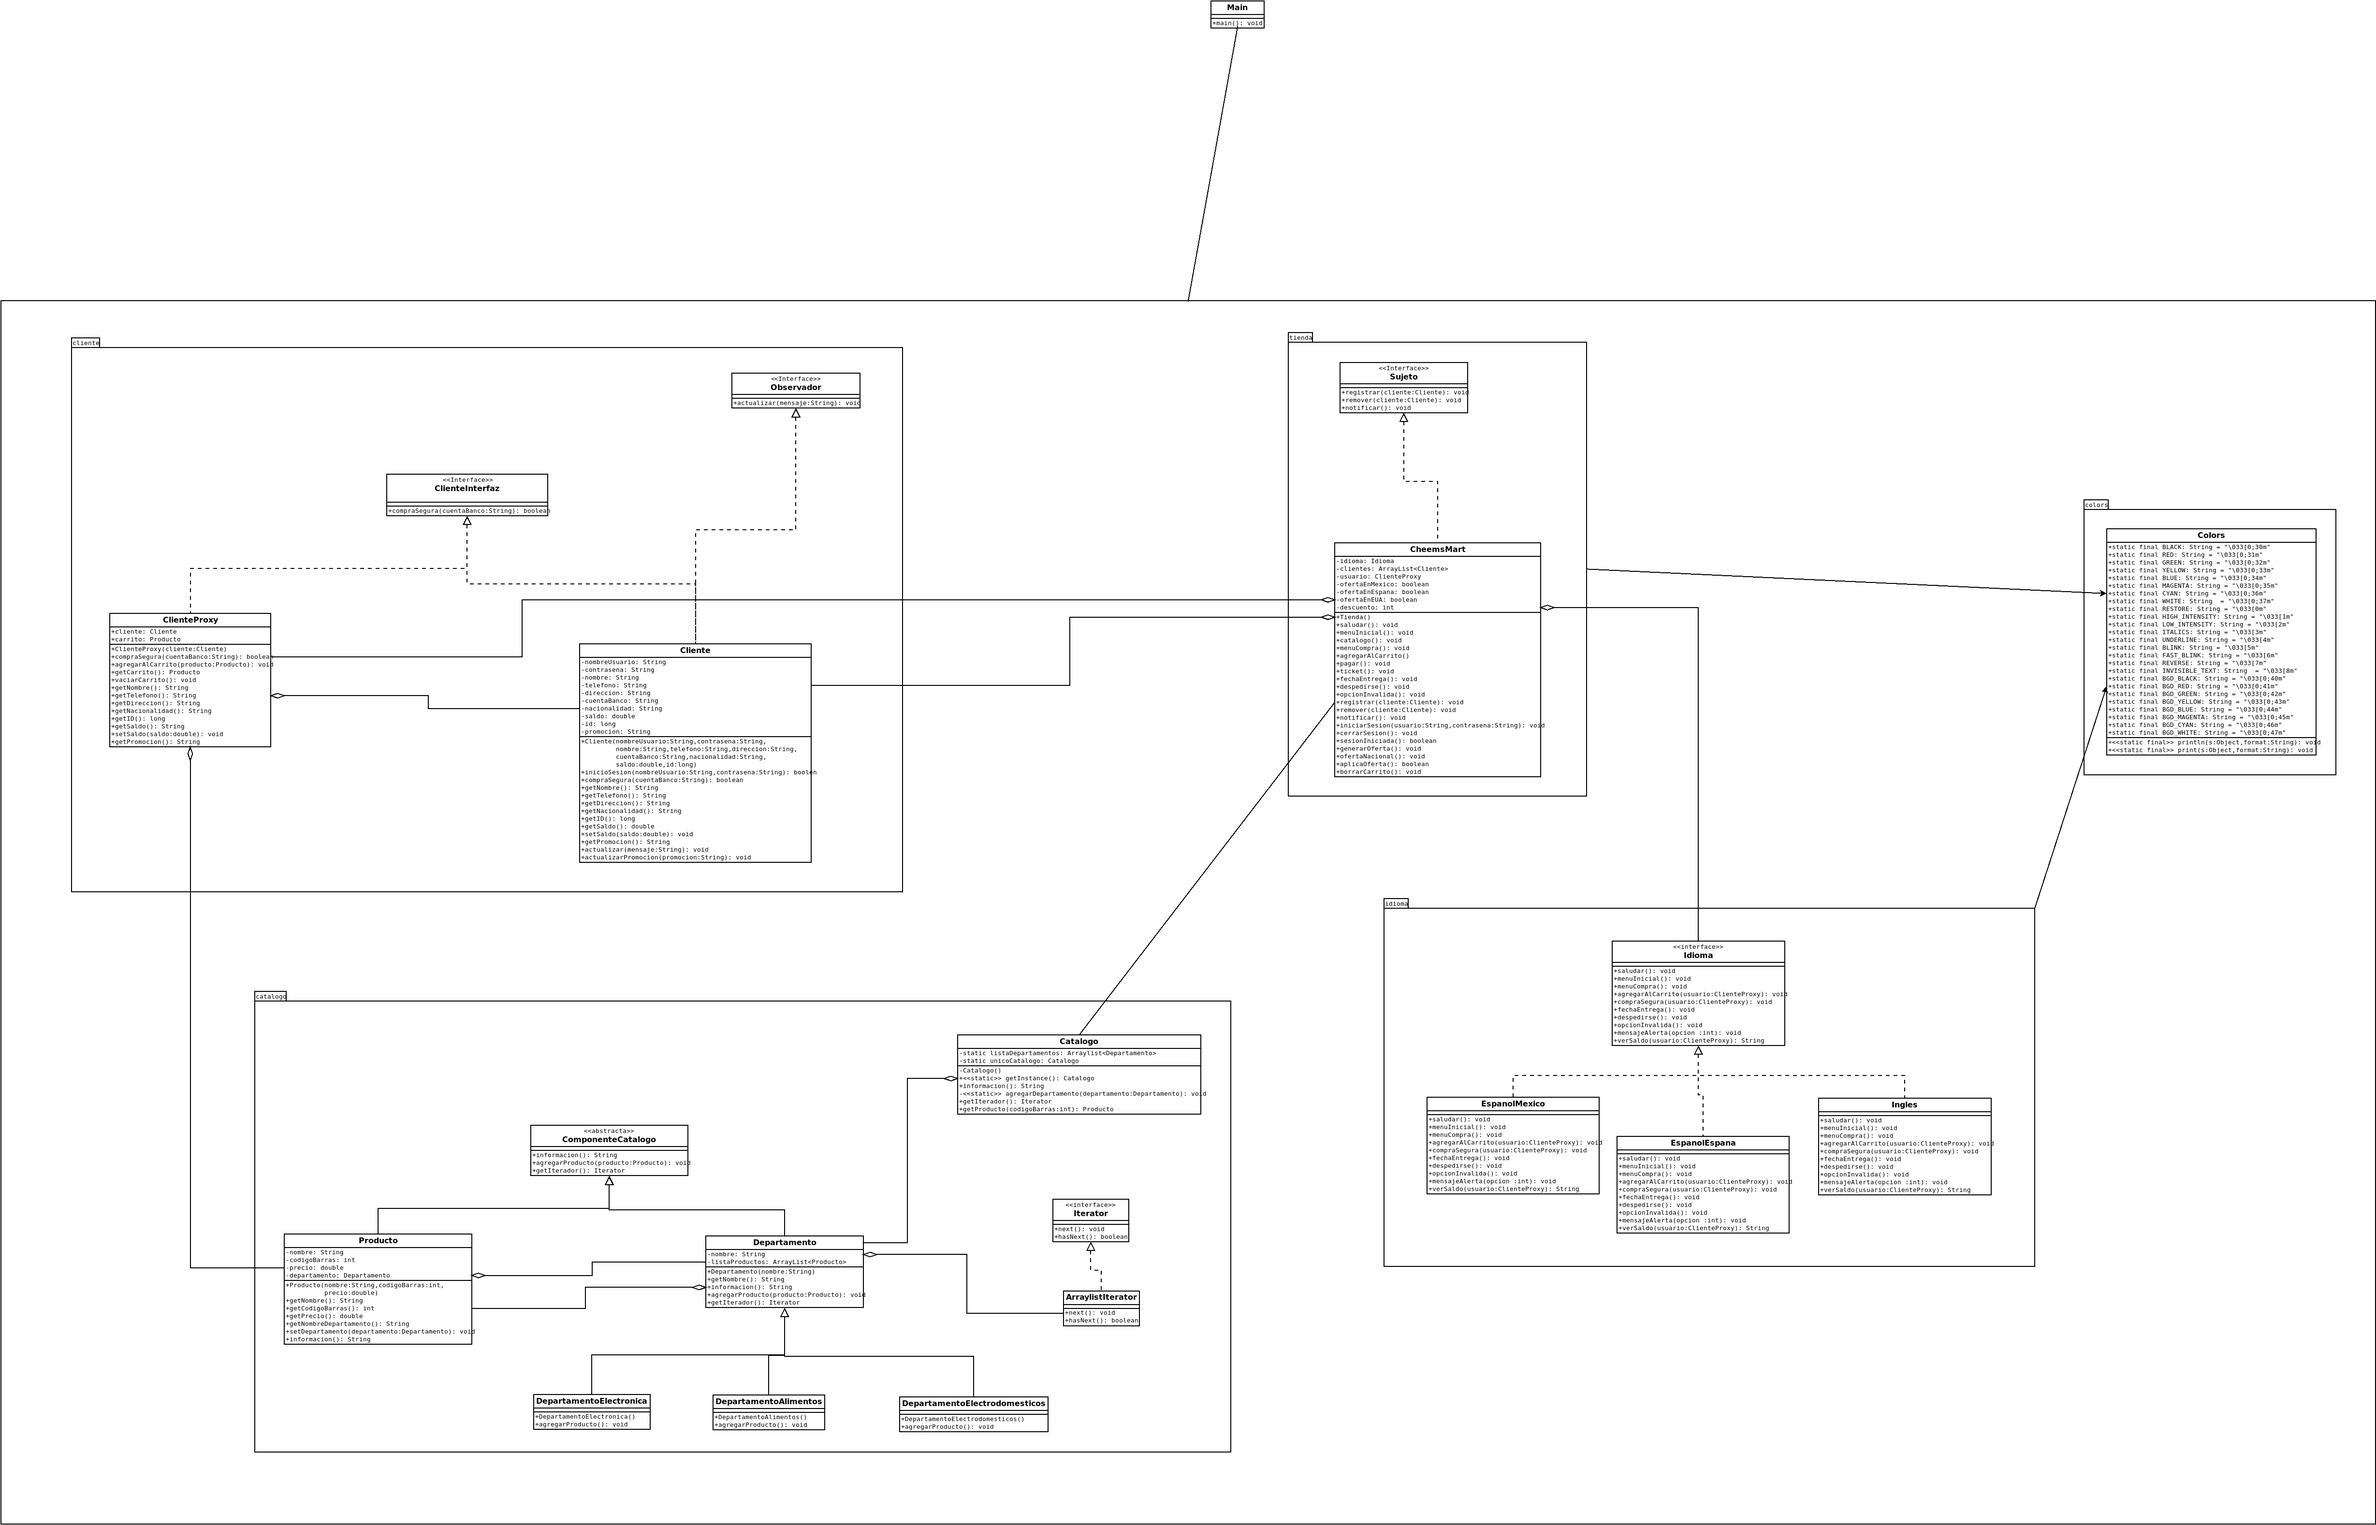
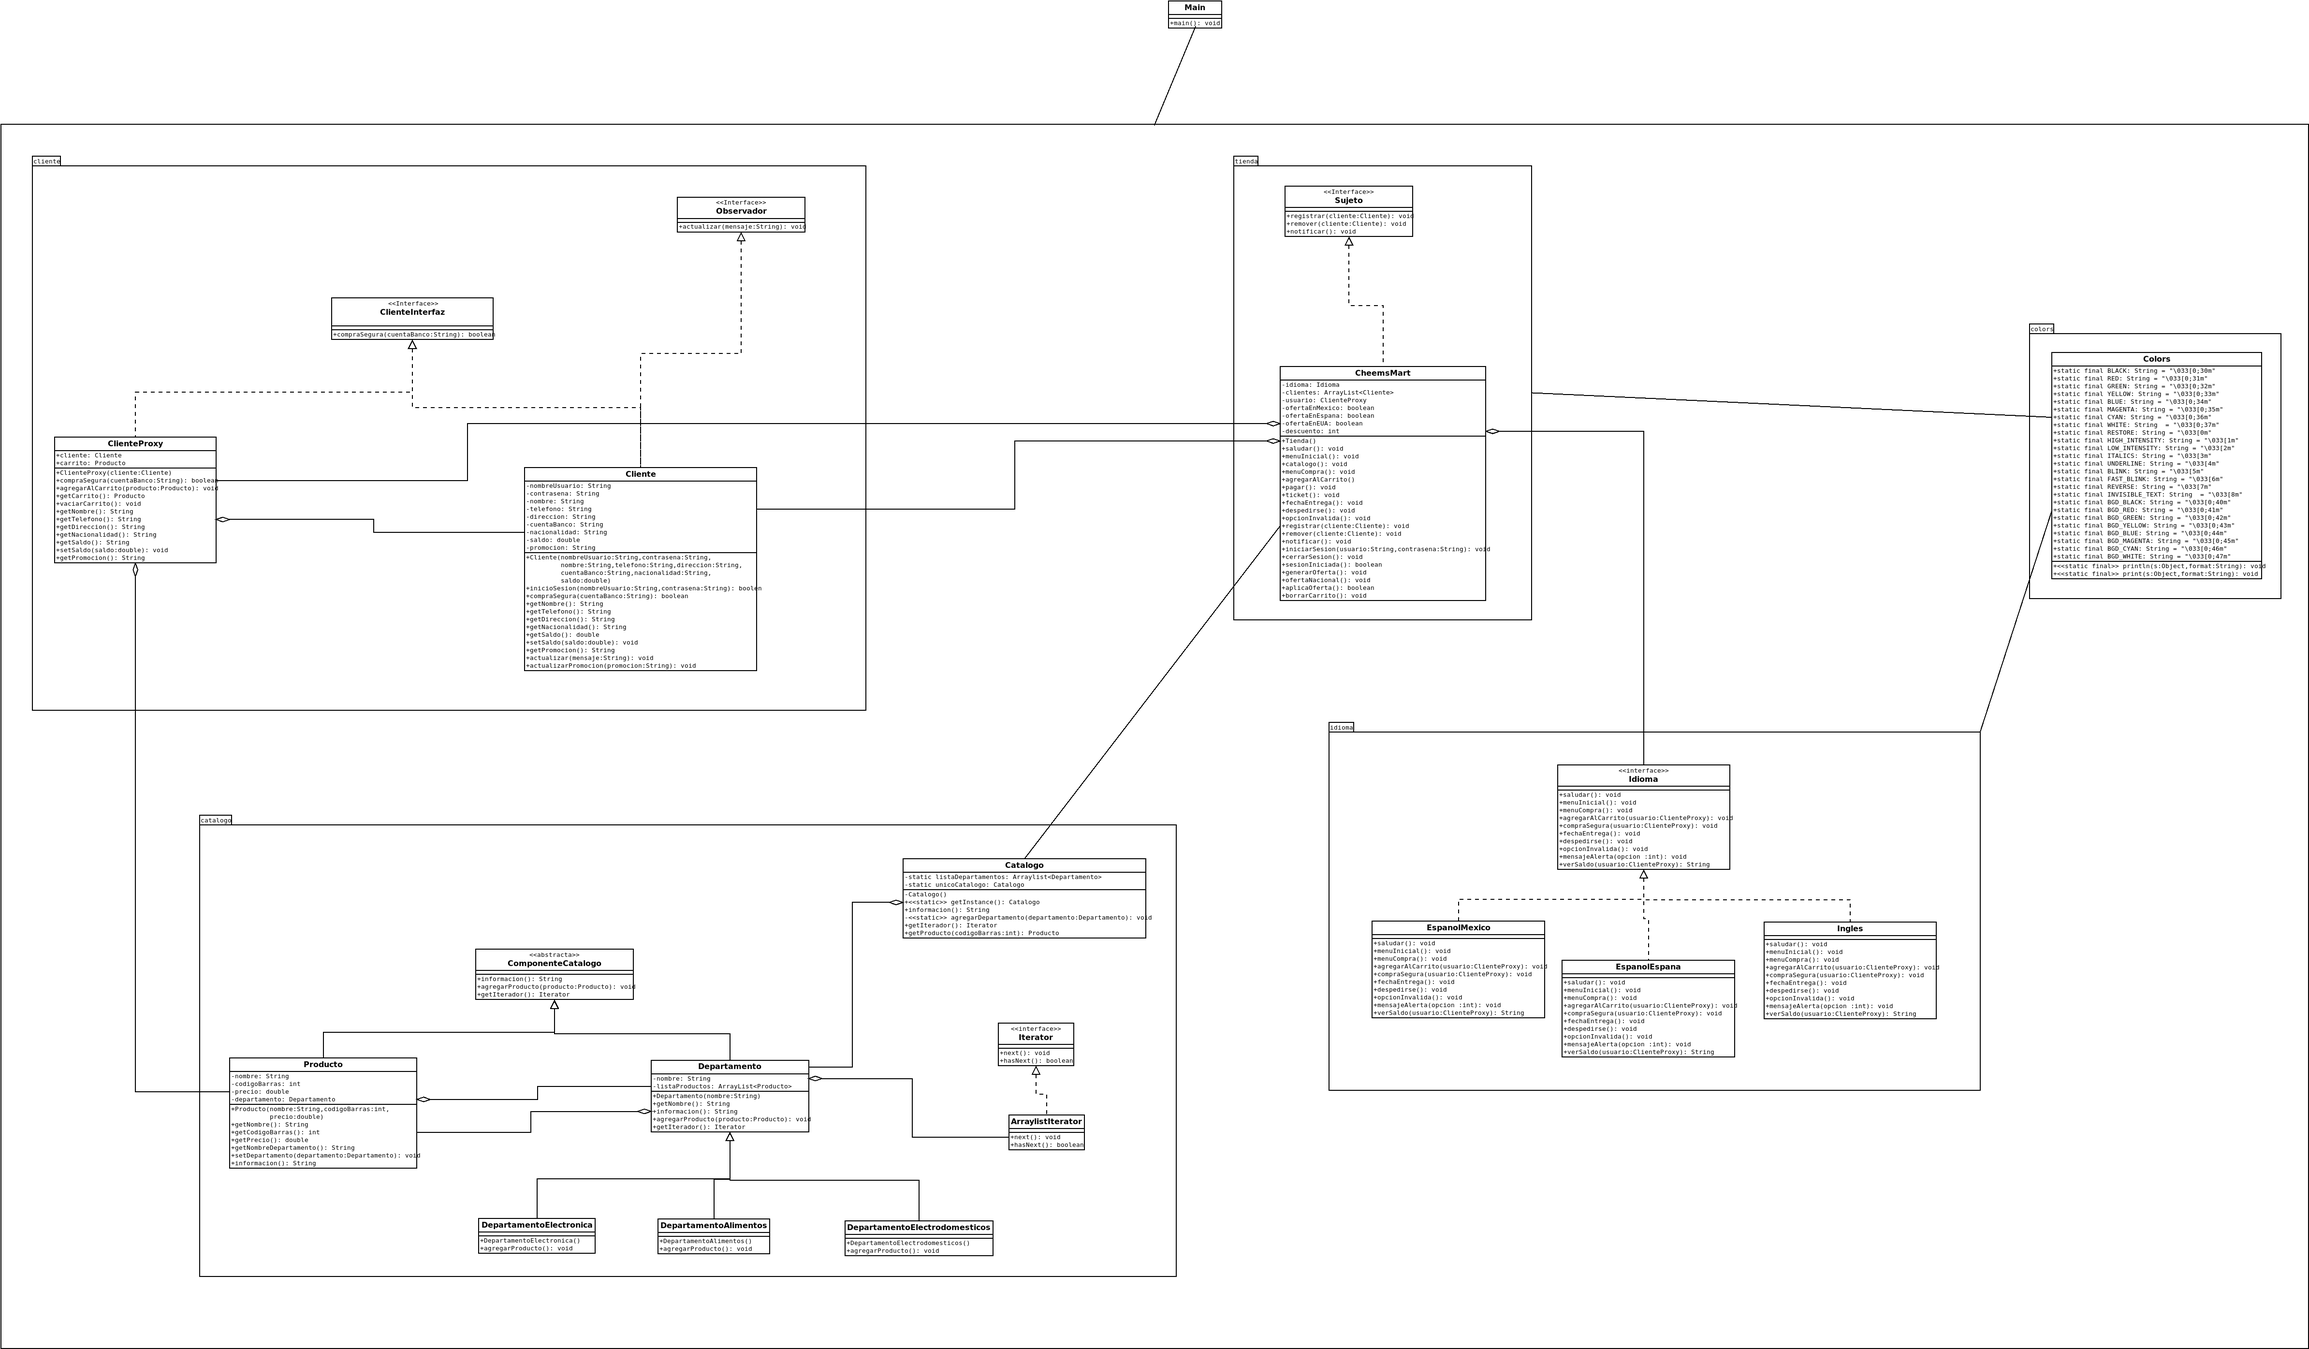
DiagramaSecuencias

diff --git a/src/cliente/Cliente.java b/src/cliente/Cliente.java
@@ -50,10 +50,6 @@ public class Cliente implements ClienteInterfaz, Observador{
      */
     private double saldo;
 
-    /**
-     * ID del cliente 
-     */
-    private long id;
 
     /**
     * Cadena con la promocion que puede aprovechar el cliente
@@ -72,10 +68,9 @@ public class Cliente implements ClienteInterfaz, Observador{
      * @param cuentaBanco Cuenta Bancaria del cliente
      * @param nacionalidad Nacionalidad del cliente
      * @param saldo Saldo en la cuenta de banco del cliente
-     * @param id ID del cliente
      */
     public Cliente(String nombreUsuario, String contrasena, String nombre, String telefono, 
-        String direccion, String cuentaBanco, String nacionalidad, double saldo, long id) {
+        String direccion, String cuentaBanco, String nacionalidad, double saldo) {
 
         this.nombreUsuario = nombreUsuario;
         this.contrasena = contrasena;
@@ -85,7 +80,6 @@ public class Cliente implements ClienteInterfaz, Observador{
         this.cuentaBanco = cuentaBanco;
         this.nacionalidad = nacionalidad;
         this.saldo = saldo;
-        this.id = id;
 
     }
 
@@ -137,14 +131,6 @@ public class Cliente implements ClienteInterfaz, Observador{
      */
     public String getNacionalidad(){
         return nacionalidad;
-    }
-
-    /**
-     * Metodo que regresa el ID del cliente
-     * @return id del cliente
-     */
-    public long getID(){
-        return id;
     }
 
     /**

diff --git a/src/tienda/CheemsMart.java b/src/tienda/CheemsMart.java
@@ -7,8 +7,6 @@ import idiomas.*;
 import java.util.ArrayList;
 import java.util.Scanner;
 import java.util.Random;
-import java.net.*;
-import java.io.*;
 
 /**
  * Clase donde se hara todo el proceso de compra en la tienda, que utiliza el patron Observer
@@ -57,9 +55,9 @@ public class CheemsMart  implements Sujeto{
     private int descuento = 0;
     
     public CheemsMart() {
-        clientes.add(new Cliente("Hermes319B", "hermes", "Hermes Alberto", "55-2885-2875", "Calle 29 CDMX 26","MX39494JF","Mexico",29793.0,1));
-        clientes.add(new Cliente("Steve318J", "steve", "Kevin Steve", "55-3692-1857", "Calle 17 EDOMEX 21","ES28946DM","Espana",32500.0,2));
-        clientes.add(new Cliente("Emiliano320T", "emiliano", "Emiliano Sebastian", "67-1974-8357", "Street 29 California 20","EU85201KW","EUA",18900.0,3));
+        clientes.add(new Cliente("Hermes319B", "hermes", "Hermes Alberto", "55-2885-2875", "Calle 29 CDMX 26","MX39494JF","Mexico",29793.0));
+        clientes.add(new Cliente("Steve318J", "steve", "Kevin Steve", "55-3692-1857", "Calle 17 EDOMEX 21","ES28946DM","Espana",32500.0));
+        clientes.add(new Cliente("Emiliano320T", "emiliano", "Emiliano Sebastian", "67-1974-8357", "Street 29 California 20","EU85201KW","EUA",18900.0));
         generarOferta();
         ofertaNacional();
         notificar();

diff --git a/src/cliente/ClienteProxy.java b/src/cliente/ClienteProxy.java
@@ -94,15 +94,6 @@ public class ClienteProxy implements ClienteInterfaz{
     }
 
     /**
-    * Devuelve el ID del cliente
-    *
-    * @return Long con el ID del cliente
-    */
-    public long getID(){
-        return cliente.getID();
-    }
-
-    /**
      * Método para obtener el saldo del cliente
      *
      * @return saldo - Saldo del cliente
